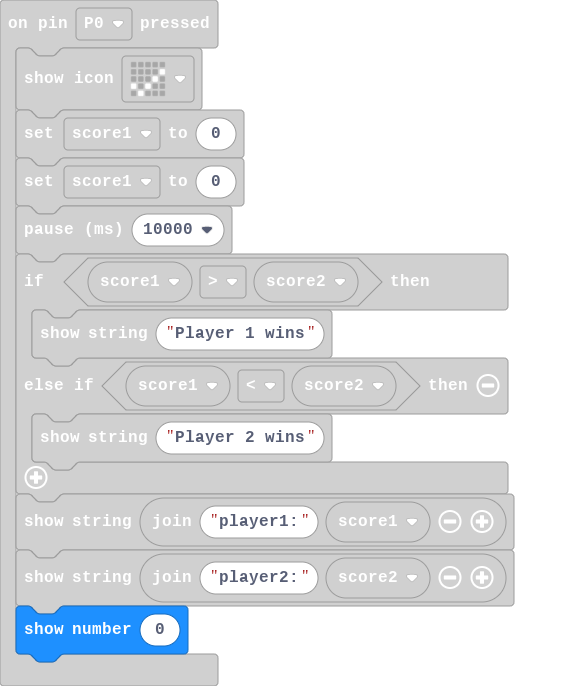
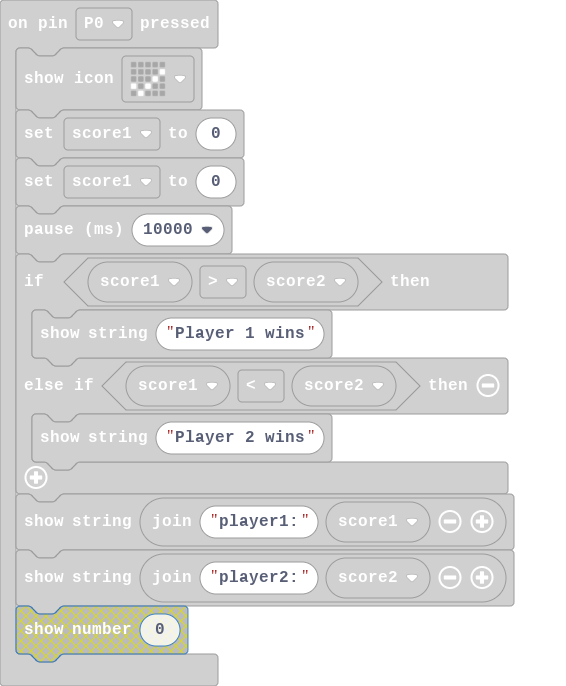
Update main.blocks, main.ts

Changed region(s): [[0.03, 0.8571, 0.3304, 0.9796]]

diff --git a/main.ts b/main.ts
@@ -12,7 +12,6 @@ input.onPinPressed(TouchPin.P0, function () {
     }
     basic.showString("player1:" + score1)
     basic.showString("player2:" + score2)
-    basic.showNumber(0)
 })
 input.onPinPressed(TouchPin.P2, function () {
     score2 += 1
